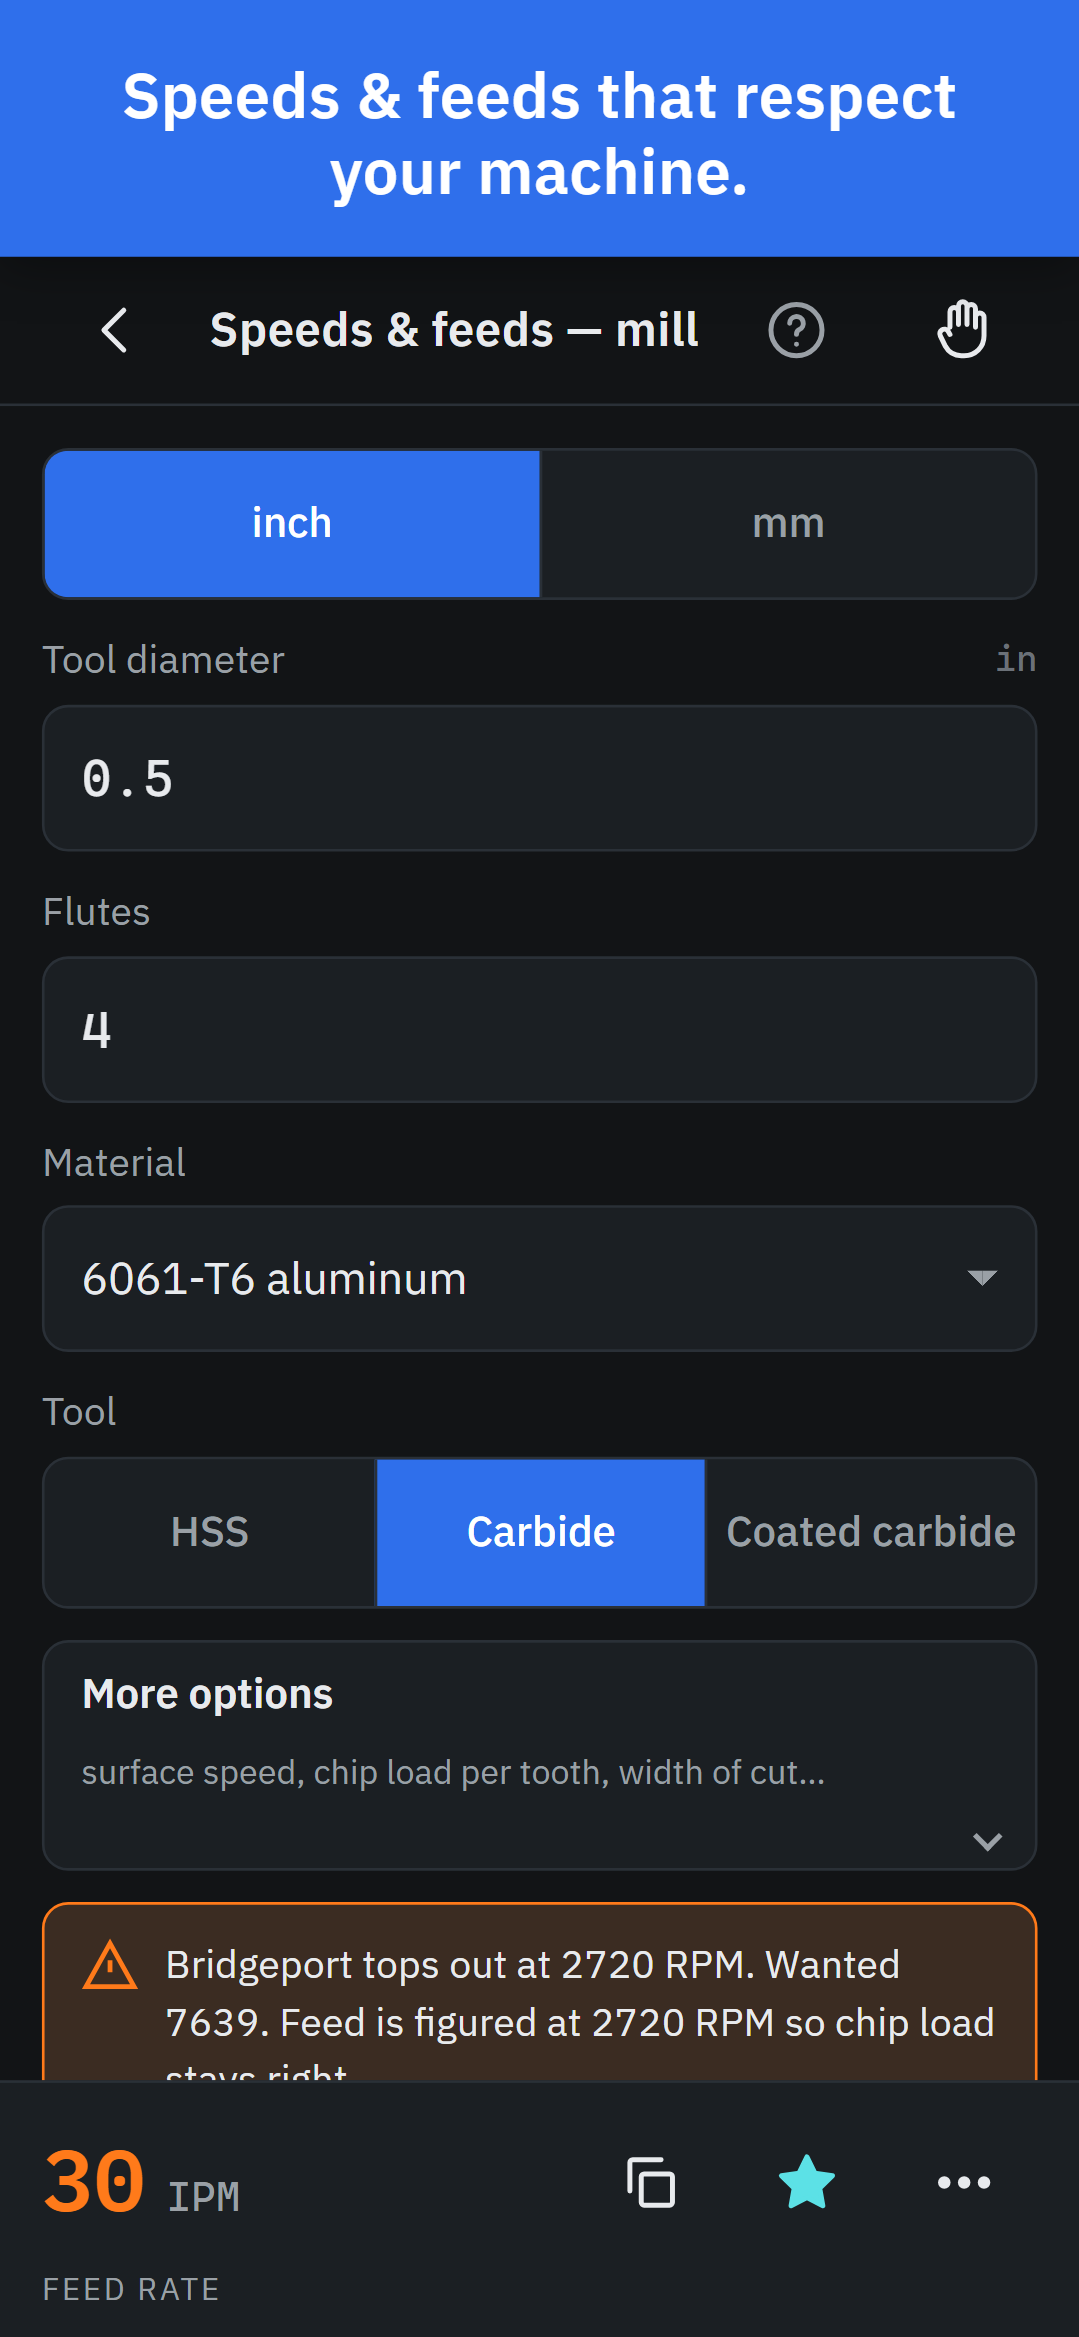
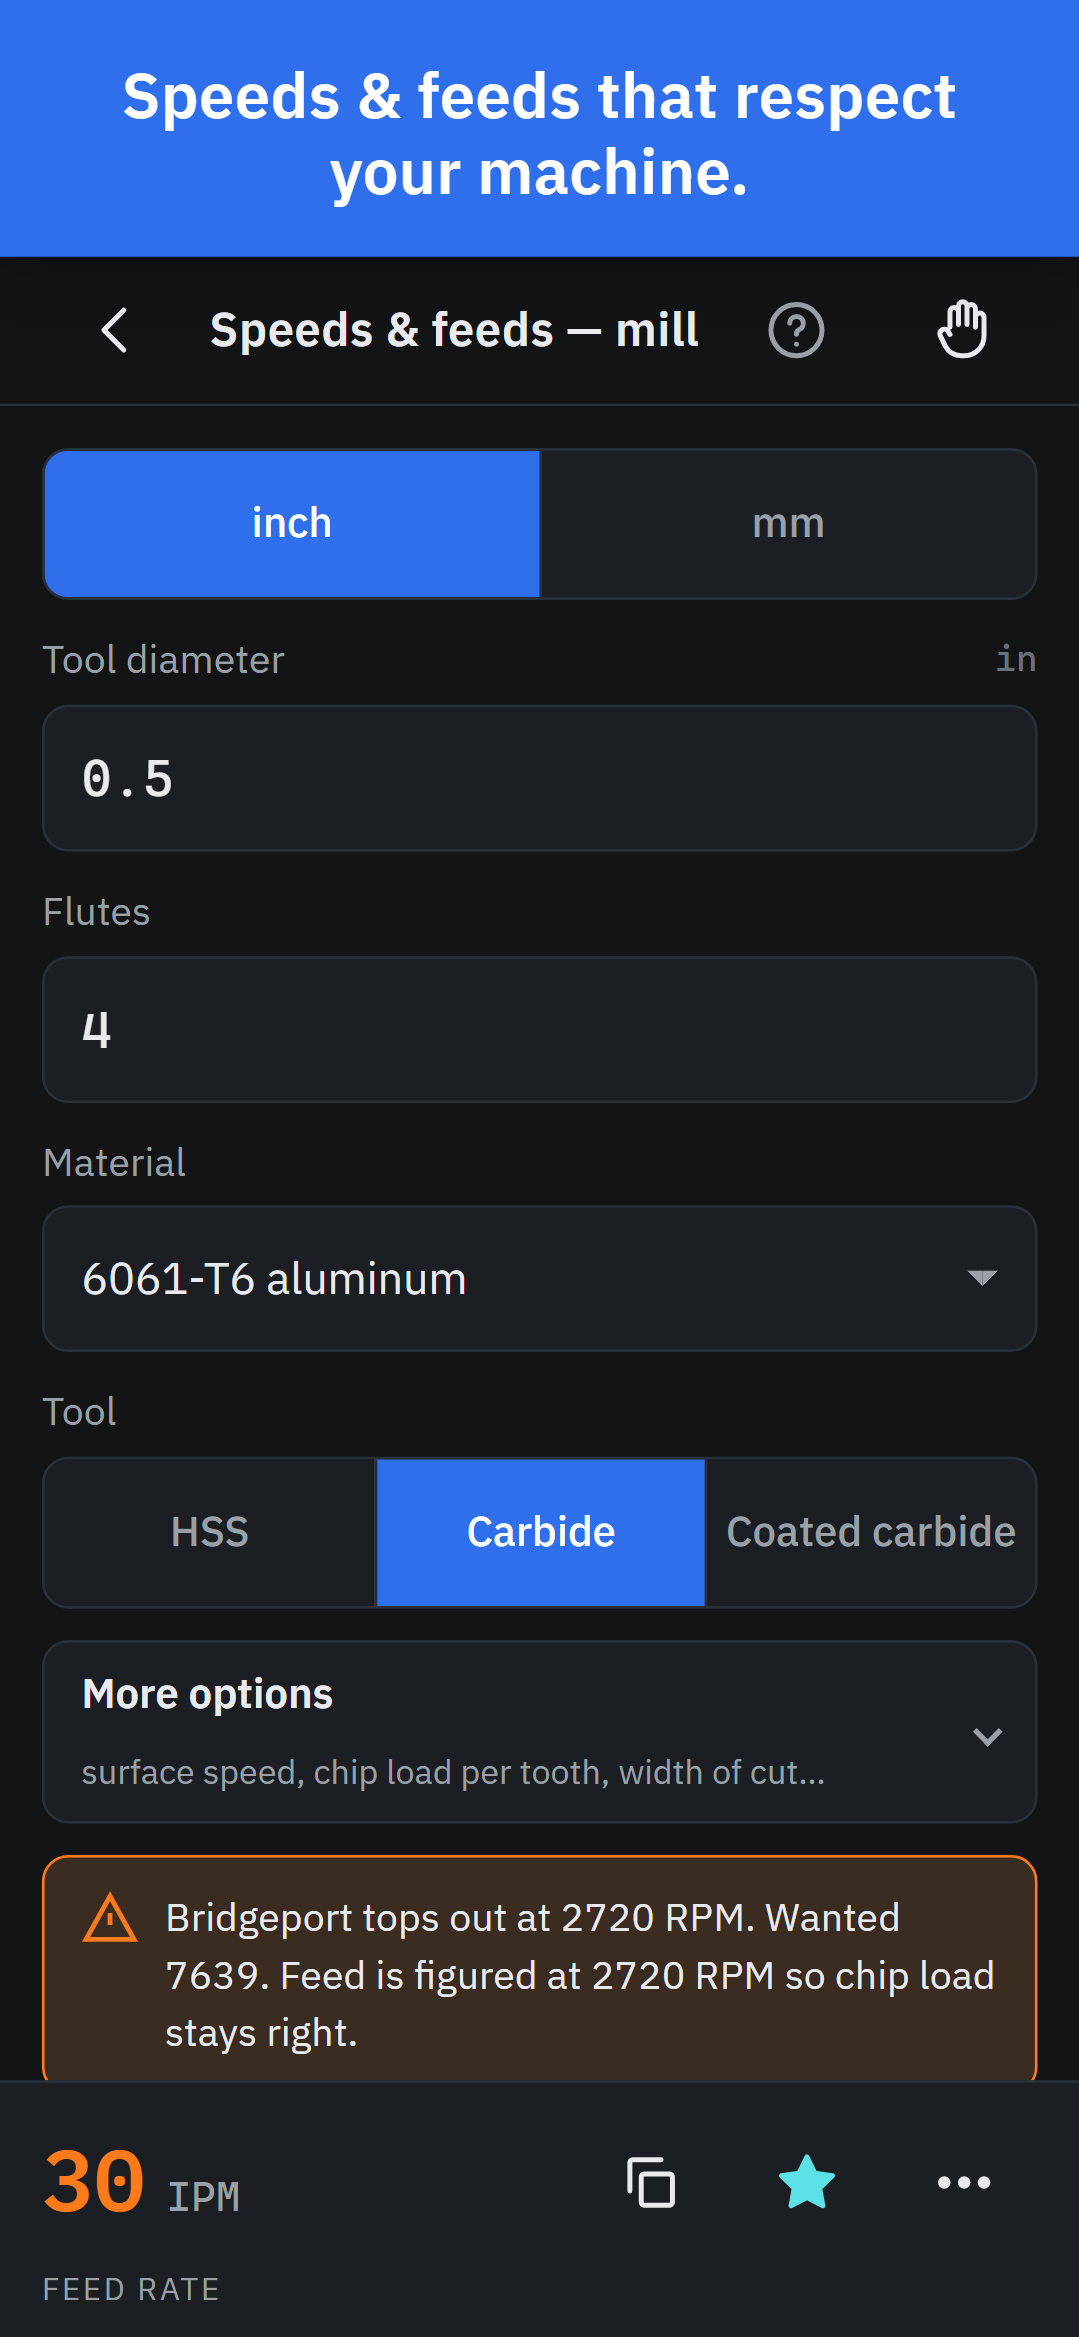
Job sheet: progressive form — starts with five basics, 'add one more number' reveals each field; drawer chevron layout; store screenshots

Changed region(s): [[0.0306, 0.7809, 0.9787, 0.9059]]

diff --git a/src/calcs/job-sheet.js b/src/calcs/job-sheet.js
@@ -17,6 +17,8 @@ import { toIn, fromIn, toSfm, fromSfm, lenPlaces } from "./_util.js";
 const isMill = (r) => r.op === "mill";
 const isDrill = (r) => r.op === "drill";
 const isLathe = (r) => r.op === "lathe";
+// Optional fields stay out of the way until they hold a value or the user taps "add …" for them.
+const want = (r, id) => String(r[id] ?? "").trim() !== "" || String(r.shown || "").split(",").includes(id);
 
 export default register({
   id: "job-sheet",
@@ -33,15 +35,16 @@ export default register({
     { id: "toolType", label: "Tool", kind: "segment", default: "carbide", options: Object.entries(TOOL_LABELS).map(([value, label]) => ({ value, label })) },
     { id: "diameter", label: "Diameter (tool — or the part, on a lathe)", kind: "length", default: "0.5", min: 0.0001 },
     { id: "flutes", label: "Flutes", kind: "int", default: "4", min: 1, max: 20, showIf: isMill },
-    { id: "woc", label: "Width of cut (sideways)", kind: "length", default: "", optional: true, placeholder: "add for chip thinning & removal rate", showIf: isMill },
-    { id: "doc", label: "Depth of cut per pass", kind: "length", default: "", optional: true, placeholder: "add for removal rate & passes", showIf: (r) => !isDrill(r) },
-    { id: "length", label: "Length of cut per pass", kind: "length", default: "", optional: true, placeholder: "add for cut time", showIf: (r) => !isDrill(r) },
-    { id: "depth", label: "Hole depth", kind: "length", default: "", optional: true, placeholder: "add for time per hole", showIf: isDrill },
-    { id: "holes", label: "Holes per part", kind: "int", default: "", optional: true, placeholder: "add for drilling time per part", min: 1, showIf: isDrill },
-    { id: "stock", label: "Total depth to remove", kind: "length", default: "", optional: true, placeholder: "add for number of passes", showIf: (r) => !isDrill(r) },
-    { id: "qty", label: "Parts to make", kind: "int", default: "", optional: true, placeholder: "add for job time", min: 1 },
-    { id: "rate", label: "Shop rate", kind: "number", default: "", unit: "$/hr", optional: true, placeholder: "add for price (Pro)", min: 0 },
-    { id: "setup", label: "Setup time", kind: "number", default: "", unit: "min", optional: true, placeholder: "optional, spread over the parts", min: 0 },
+    { id: "woc", label: "Width of cut (sideways)", kind: "length", default: "", optional: true, placeholder: "add for chip thinning & removal rate", showIf: (r) => isMill(r) && want(r, "woc") },
+    { id: "doc", label: "Depth of cut per pass", kind: "length", default: "", optional: true, placeholder: "add for removal rate & passes", showIf: (r) => !isDrill(r) && want(r, "doc") },
+    { id: "length", label: "Length of cut per pass", kind: "length", default: "", optional: true, placeholder: "add for cut time", showIf: (r) => !isDrill(r) && want(r, "length") },
+    { id: "depth", label: "Hole depth", kind: "length", default: "", optional: true, placeholder: "add for time per hole", showIf: (r) => isDrill(r) && want(r, "depth") },
+    { id: "holes", label: "Holes per part", kind: "int", default: "", optional: true, placeholder: "add for drilling time per part", min: 1, showIf: (r) => isDrill(r) && want(r, "holes") },
+    { id: "stock", label: "Total depth to remove", kind: "length", default: "", optional: true, placeholder: "add for number of passes", showIf: (r) => !isDrill(r) && want(r, "stock") },
+    { id: "qty", label: "Parts to make", kind: "int", default: "", optional: true, placeholder: "add for job time", min: 1, showIf: (r) => want(r, "qty") },
+    { id: "rate", label: "Shop rate", kind: "number", default: "", unit: "$/hr", optional: true, placeholder: "add for price (Pro)", min: 0, showIf: (r) => want(r, "rate") },
+    { id: "setup", label: "Setup time", kind: "number", default: "", unit: "min", optional: true, placeholder: "optional, spread over the parts", min: 0, showIf: (r) => want(r, "setup") || want(r, "rate") },
+    { id: "shown", label: "", kind: "text", default: "", showIf: () => false },
     { id: "sfm", label: "Surface speed override", kind: "speed", default: "", optional: true, placeholder: "blank = library value", advanced: true },
     { id: "chip", label: "Chip load / feed-per-rev override", kind: "length", default: "", optional: true, placeholder: "blank = library value", advanced: true },
   ],
@@ -86,7 +89,6 @@ export default register({
     const warnings = [];
     if (mill && Number.isFinite(v.chip) && chipIn > Math.max(sp.chipIn * Math.max(0.25, Math.min(1.5, dIn / 0.375)) * 3, dIn * 0.02)) warnings.push(`${fmt(fromIn(chipIn, c.units), 4)} ${c.L.length} per tooth is a very heavy chip for this tool. Expect it to break.`);
     if (clamped) warnings.push(`${c.machine.name} tops out at ${fmt(maxRpm, 0)} RPM. Wanted ${fmt(requestedRpm, 0)}. Feed is figured at ${fmt(rpm, 0)} RPM.`);
-    if (!c.machine) next.push({ add: "A machine profile", get: "RPM and feed capped to your machine", href: "#/shop" });
 
     // ── what the cut adds ──
     const wocIn = Number.isFinite(v.woc) ? toIn(v.woc, c.units) : NaN, docIn = Number.isFinite(v.doc) ? toIn(v.doc, c.units) : NaN;
@@ -125,6 +127,8 @@ export default register({
           rows: [{ k: "Machine time", v: `${fmt(jobMin / 60, 2)} hr` }, { k: `At $${fmt(v.rate, 0)}/hr`, v: `$${fmt(cost, 2)}` }, { k: "Per part", v: `$${fmt(cost / v.qty, 2)}` }] });
       } else next.push({ add: "Shop rate", get: "price per part (Pro)", input: "rate" });
     }
+
+    if (!c.machine) next.push({ add: "Your machine (Shop)", get: "RPM and feed capped to its limits", href: "#/shop" });
 
     return {
       primary: { label: `Feed · ${sp.material.name}`, value: fromIn(feedOut, c.units), unit: c.L.feed, places: 1, clamped: feedOut < feedIpm },

diff --git a/src/app/render.js b/src/app/render.js
@@ -409,10 +409,17 @@ export function mountCalculator(def, root, { params = {}, onBack } = {}) {
     }
     extras.innerHTML = html;
     extras.querySelectorAll("[data-href]").forEach((b) => b.addEventListener("click", () => { location.hash = b.dataset.href; }));
-    extras.querySelectorAll("[data-focus]").forEach((b) => b.addEventListener("click", () => {
-      const el = fields[b.dataset.focus]; if (!el) return;
+    extras.querySelectorAll("[data-focus]").forEach((b) => b.addEventListener("click", (ev) => {
+      ev.stopPropagation(); // keep the "tap outside closes the pad" handler from undoing the focus below
+      const id = b.dataset.focus;
+      const el = fields[id]; if (!el) return;
+      // Progressive forms keep optional fields hidden until asked for: remember it as shown, then redraw.
+      if (fieldWraps[id].hidden && "shown" in raw) {
+        raw.shown = [...new Set([...String(raw.shown || "").split(",").filter(Boolean), id])].join(",");
+        recalc();
+      }
       if (more && more.contains(el)) more.open = true;
-      el.focus(); el.scrollIntoView({ block: "center", behavior: "smooth" });
+      el.focus();
     }));
     extras.querySelectorAll("[data-copy]").forEach((b) => b.addEventListener("click", async () => {
       try { await navigator.clipboard.writeText(b.dataset.copy); toast("Copied"); } catch { toast("Copy blocked"); }

diff --git a/src/styles/app.css b/src/styles/app.css
@@ -260,10 +260,10 @@ pre.lic { font: 0.75rem/1.4 var(--mono); white-space: pre-wrap; color: var(--tex
 .help .btn, .intro .btn { text-decoration: none; display: inline-flex; align-items: center; }
 details.jobs .body { padding: 0; }
 details.jobs .list { border: 0; border-radius: 0; border-top: 1px solid var(--line); }
-details.drawer summary .sub { display: block; font-weight: 400; font-size: 0.8125rem; color: var(--text-2); }
-details.drawer summary { padding-top: 8px; padding-bottom: 8px; }
-details.drawer summary > .sub { flex-basis: 100%; }
-details.drawer summary { flex-wrap: wrap; }
+details.drawer summary { display: grid; grid-template-columns: 1fr auto; align-items: center; column-gap: 10px; padding-top: 8px; padding-bottom: 8px; }
+details.drawer summary .sub { grid-column: 1; font-weight: 400; font-size: 0.8125rem; color: var(--text-2); }
+details.drawer summary::after { grid-column: 2; grid-row: 1 / span 2; margin-left: 0; }
+#homeBody > :first-child { margin-top: 16px; }
 details.more .body { padding-top: 12px; display: flex; flex-direction: column; gap: 12px; }
 #gloveBtn[aria-pressed="true"] { color: var(--scribe); background: color-mix(in srgb, var(--scribe) 16%, transparent); }
 #helpBtn { color: var(--text-2); }
